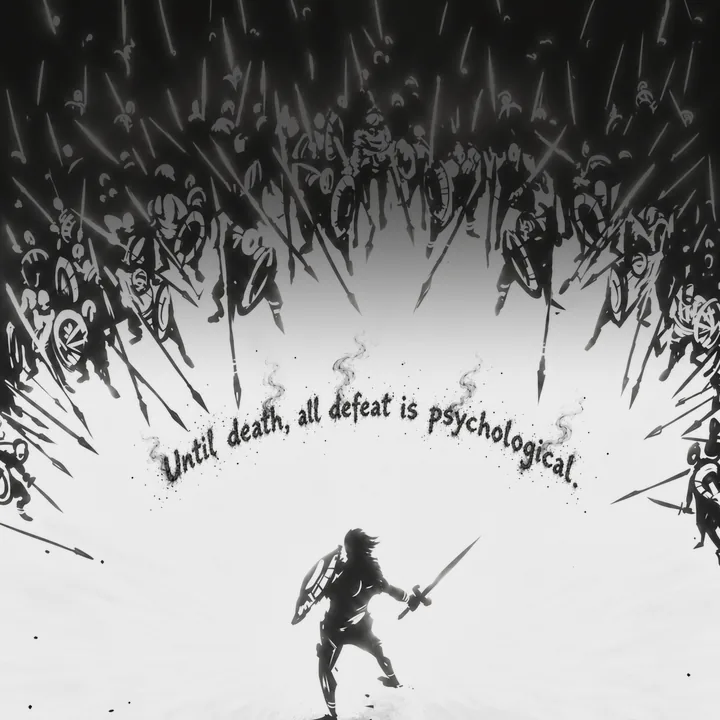
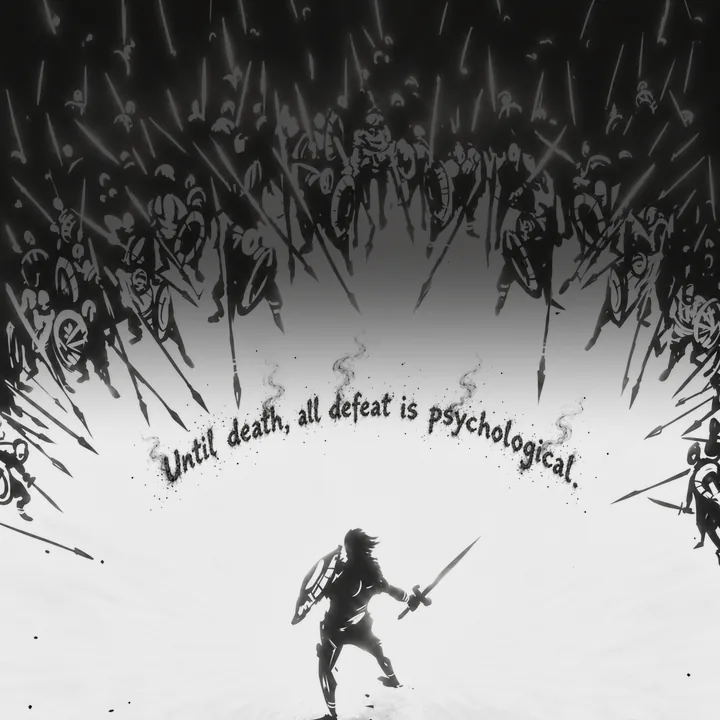
Daily Motivation: the dark band under the date, a soft shadow on the clock's words (31b)

Changed region(s): [[0.0, 0.275, 1.0, 0.55]]

diff --git a/apps/mobile/src/screens/dashboard/Clock.tsx b/apps/mobile/src/screens/dashboard/Clock.tsx
@@ -28,10 +28,10 @@ export function Clock() {
   return (
     <View accessible accessibilityRole="timer" accessibilityLabel={`${time}, ${date}`} style={styles.clock}>
       <View style={styles.row}>
-        <Txt style={styles.time}>{time.slice(0, cut)}</Txt>
-        <Txt style={styles.half}>{time.slice(cut + 1)}</Txt>
+        <Txt style={[styles.time, styles.shadow]}>{time.slice(0, cut)}</Txt>
+        <Txt style={[styles.half, styles.shadow]}>{time.slice(cut + 1)}</Txt>
       </View>
-      <Txt colour="text" style={styles.date}>
+      <Txt colour="text" style={[styles.date, styles.shadow]}>
         {date}
       </Txt>
     </View>
@@ -41,6 +41,8 @@ export function Clock() {
 const styles = StyleSheet.create({
   clock: { gap: 2 },
   row: { flexDirection: "row", alignItems: "baseline", gap: 5 },
+  // A soft shadow, so the words read where the picture brightens under them.
+  shadow: { textShadowColor: colours.wordShadow, textShadowOffset: { width: 0, height: 1 }, textShadowRadius: 8 },
   // Figures of one width, so the seconds turning over never shift the line.
   time: { fontFamily: fonts.display, fontSize: 46, lineHeight: 54, letterSpacing: 0.5, color: colours.text, fontVariant: ["tabular-nums"] },
   half: { fontFamily: fonts.display, fontSize: 22, letterSpacing: 0.5, color: colours.text },

diff --git a/apps/mobile/src/look/colours.ts b/apps/mobile/src/look/colours.ts
@@ -19,6 +19,8 @@ export const colours = {
   overPicture: "rgba(16,15,13,0.62)",
   /** Behind a box from the bottom, and that box's handle. */
   scrim: "rgba(0,0,0,0.66)",
+  /** Behind words that lie on a bright picture. */
+  wordShadow: "rgba(0,0,0,0.8)",
   grab: "rgba(255,255,255,0.18)",
   track: "rgba(255,255,255,0.08)",
   line: "rgba(255,255,255,0.06)",
